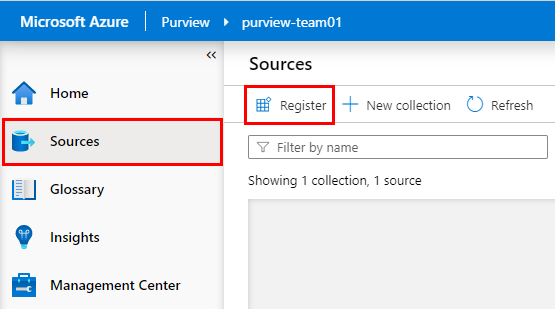
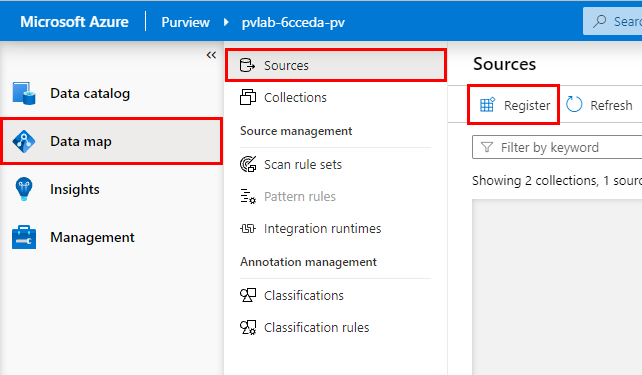
module2b

diff --git a/modules/module02b.md b/modules/module02b.md
@@ -98,27 +98,27 @@ To populate Azure Purview with assets for data discovery and understanding, we m
 
 1. Navigate to **Secrets** and click **Generate/Import**.
 
-    ![](../images/module02/02.55-vault-secrets.png)
+    ![Generate Secret](../images/module02/02.55-vault-secrets.png)
 
 2. Under **Name** type `sql-secret`. Under **Value** type `sqlPassword!`. Click **Create**.
 
-    ![](../images/module02/02.56-vault-sqlsecret.png)
+    ![Create Secret](../images/module02/02.56-vault-sqlsecret.png)
 
 <div align="right"><a href="#module-02b---register--scan-azure-sql-db">↥ back to top</a></div>
 
 ## 4. Add Credentials to Azure Purview
 
-1. To make the secret accessible to Azure Purview, we must establish a connection to Azure Key Vault. Open **Purview Studio**, navigate to **Management Center** > **Credentials**, click **Manage Key Vault connections**.
+1. To make the secret accessible to Azure Purview, we must first establish a connection to Azure Key Vault. Open **Purview Studio**, navigate to **Management Center** > **Credentials**, click **Manage Key Vault connections**.
 
-    ![](../images/module02/02.57-management-vault.png)
+    ![Manage Key Vault Connections](../images/module02/02.57-management-vault.png)
 
 2. Click **New**.
 
-    ![](../images/module02/02.58-vault-new.png)
+    ![New Key Vault Connection](../images/module02/02.58-vault-new.png)
 
-3. Use the drop-down menus to select the appropriate **Subscription** and **Key Vault name**. Click **Create**.
+3. Enter a unique name (e.g. `myKeyVault`) and use the drop-down menus to select the appropriate **Subscription** and **Key Vault name**. Click **Create**.
 
-    ![](../images/module02/02.59-vault-create.png)
+    ![Create Key Vault Connection](../images/module02/02.59-vault-create.png)
 
 4. Since we have already granted the Purview managed identity access to our Azure Key Vault, click **Confirm**.
 
@@ -136,7 +136,7 @@ To populate Azure Purview with assets for data discovery and understanding, we m
 
     * Overwrite the **Name** to `credential-SQL`
     * Set the **Authentication method** to `SQL authentication`
-    * Set the **User name** to the SQL Server admin login specified earlier (e.g. `team01`)
+    * Set the **User name** to `sqladmin`.
     * Select the **Key Vault connection**
     * Set the **Secret name** to `sql-secret`
 
@@ -146,7 +146,7 @@ To populate Azure Purview with assets for data discovery and understanding, we m
 
 ## 5. Register a Source (Azure SQL DB)
 
-1. Open Purview Studio, navigate to **Sources** and click **Register**.
+1. Open Purview Studio, navigate to **Data map** > **Sources**, and click **Register**.
 
     ![](../images/module02/02.42-sources-register.png)
 
@@ -162,7 +162,7 @@ To populate Azure Purview with assets for data discovery and understanding, we m
 
 ## 6. Scan a Source with Azure Key Vault Credentials
 
-1. Open Purview Studio, navigate to **Sources**, and within the Azure SQL Database source tile, click the **New Scan** button.
+1. Open Purview Studio, navigate to **Data map** > **Sources**, and within the Azure SQL Database tile, click the **New Scan** button.
 
     ![](../images/module02/02.64-sources-scansql.png)
 
